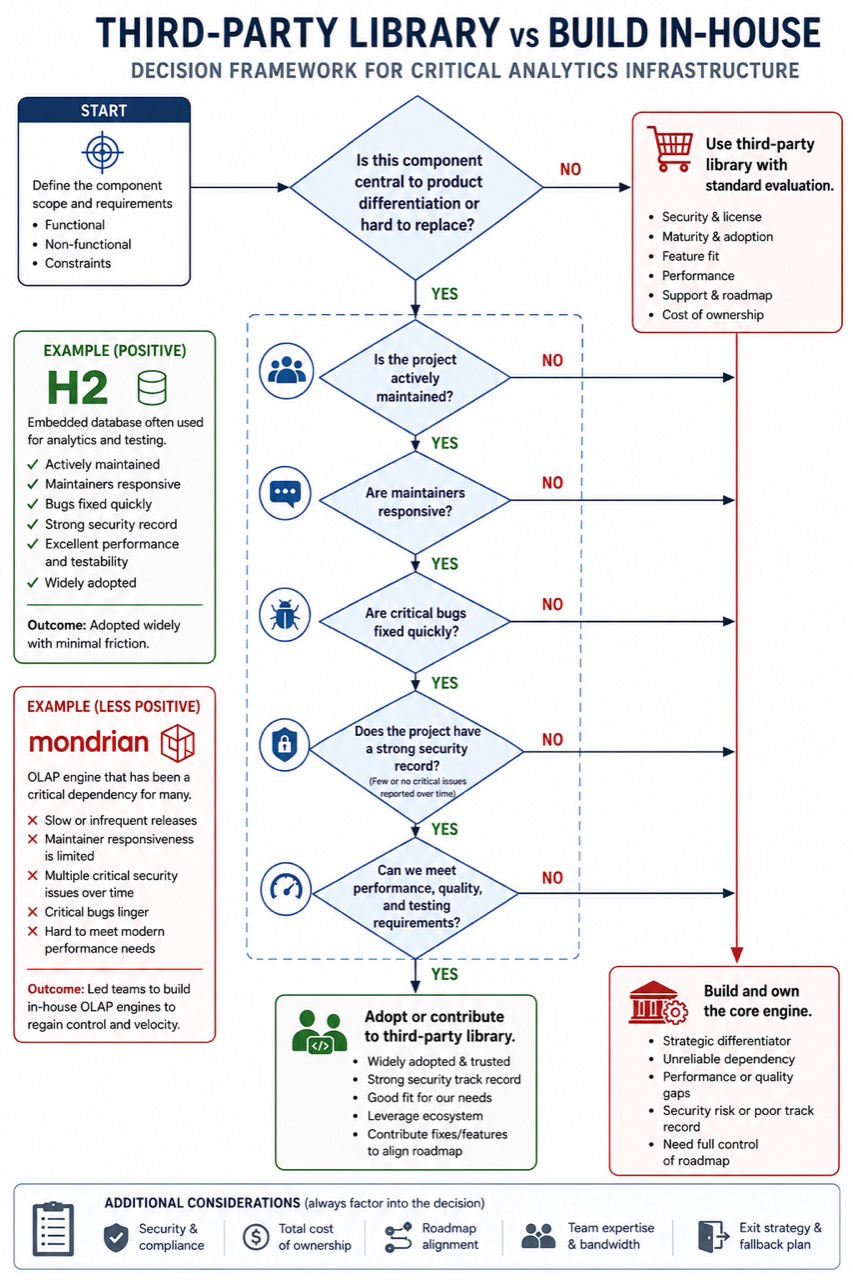
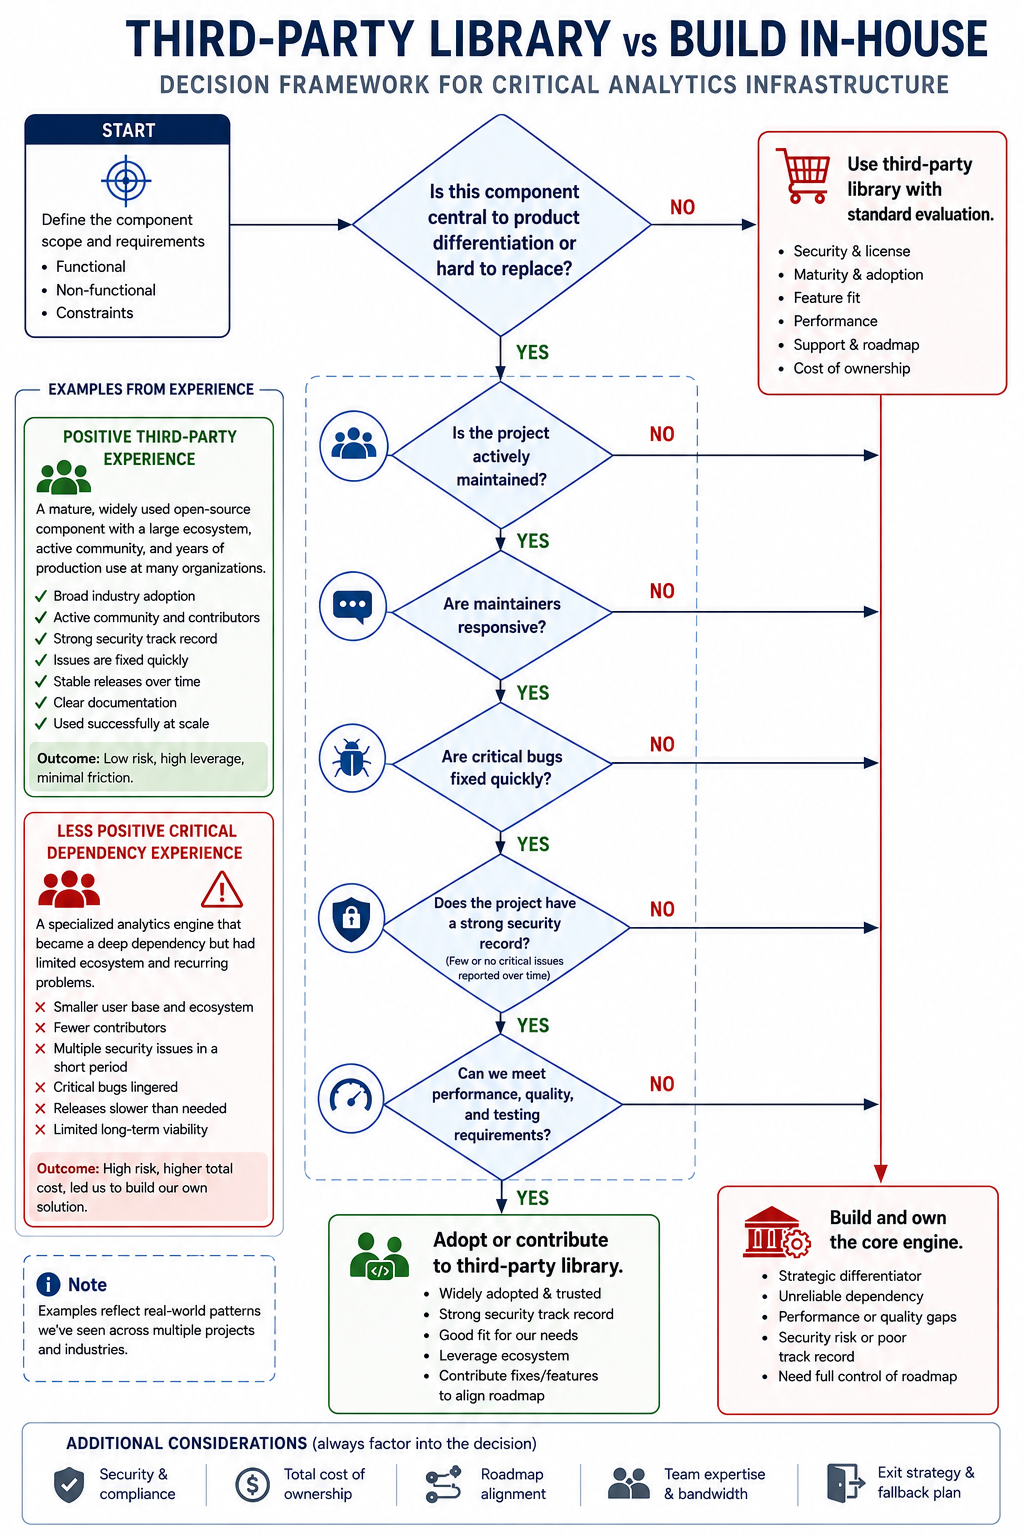
Updated examples and diagram

Changed region(s): [[0.0, 0.0, 1.0, 1.0], [0.6096, 0.125, 0.7011, 0.1562], [0.3353, 0.125, 0.3658, 0.1562]]

diff --git a/docs/May-24-2026-Part-3-building-and-maintaining-visier-db-one-cached-copy-security-engineering-discipline.md b/docs/May-24-2026-Part-3-building-and-maintaining-visier-db-one-cached-copy-security-engineering-discipline.md
@@ -161,15 +161,15 @@ Key considerations include:
 
 ![Decision framework for choosing between a third-party library and building in-house for critical analytics infrastructure](images/third-party-library-vs-build-in-house-decision-framework.png)
 
-*Figure 2: For critical analytics infrastructure, the build-vs.-buy decision depends on strategic importance, maintainability, responsiveness, quality, and control. The named examples reflect Visier's historical evaluation context, not current assessments of those projects.*
+*Figure 2: For critical analytics infrastructure, the build-vs.-buy decision depends on strategic importance, maintainability, responsiveness, quality, and control.*
 
-One positive example is the open-source database **H2**. Our experience with H2 has included:
+In one positive third-party library experience, we saw:
 
 - Good responsiveness.
 - Bug fixes and improvements accepted quickly.
 - A collaborative relationship.
 
-A historical example from the other direction was the open-source OLAP engine **Mondrian**, as we experienced it roughly a decade ago. This is not meant as a current assessment of the project or its maintainers. At the time, for the specific critical-path use case we had, we found:
+In a historical example from the other direction, roughly a decade ago, we had a critical third-party OLAP dependency that no longer fit our requirements. This is not meant as a current assessment of any specific project or maintainer group. At the time, for the specific critical-path use case we had, we found:
 
 - We did not have enough control over the roadmap and release cadence.
 - Some issues important to our use case were not resolved quickly enough for a core platform dependency.
